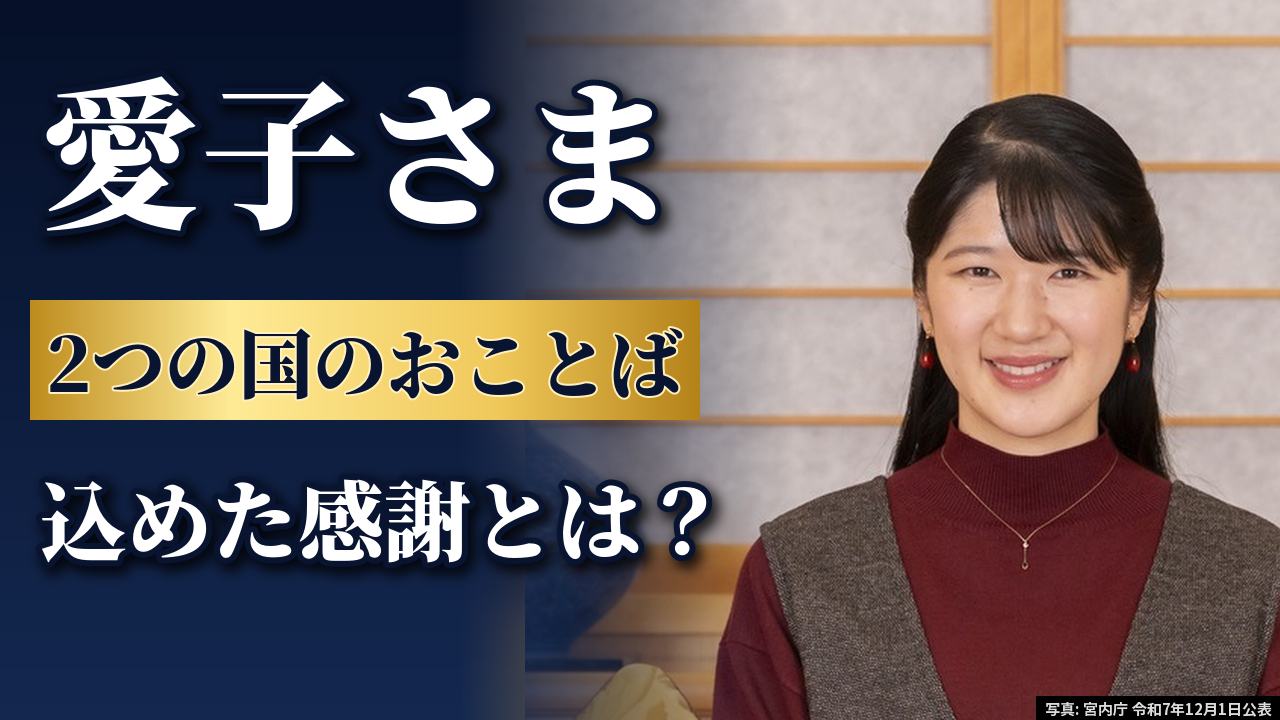
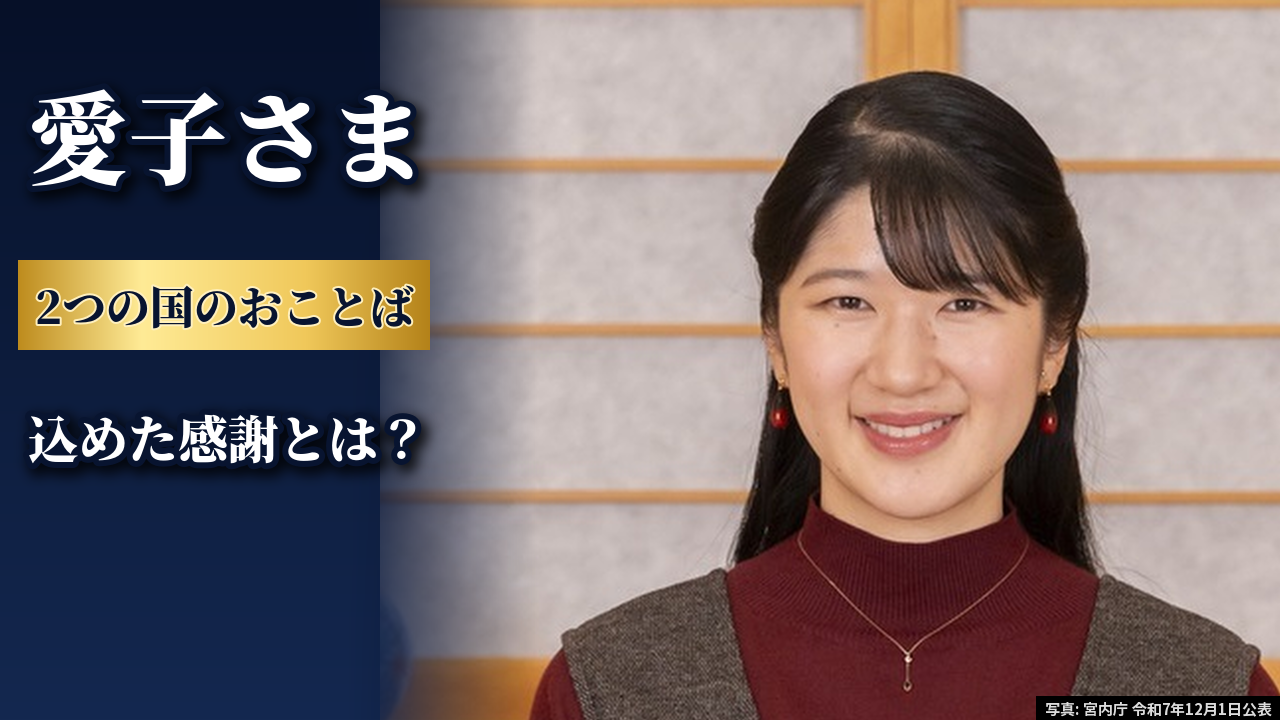
長尺の表紙: 画像がメイン(写真7割以上・文字は端に小さく・主役は1000px以上の写真)(荒木指示)
Claude-Session: https://claude.ai/code/session_01BJaPieHBuTRAAQkfULpzEX

diff --git a/pipeline/thumb_long.py b/pipeline/thumb_long.py
@@ -120,36 +120,36 @@ def credit(im, s):
     w = d.textlength(s, font=f); d.rectangle((W - w - 16, H - 24, W, H), fill=(0, 0, 0)); d.text((W - w - 8, H - 23), s, font=f, fill=(220, 220, 220))
 
 
-def type_R(out, img, focus, big, band, line, cap):
-    """右に人物1名(画面の約6割)・左に文字(大・金の帯・一言)"""
+def type_R(out, img, focus, big, band, line, cap, big_fill="white", face_h=300):
+    """画像がメイン(荒木指示 2026-11-24): 人物1名を画面の約7割に大きく。文字は左端の細い列に小さくまとめる"""
     im = Image.new("RGB", (W, H), NAVY)
-    ph = place(img, 820, H, (560, 300), 230, focus); im.paste(ph, (W - 820, 0))
-    fx, fy, fw, fh = place.last_face; faces_ = [(fx + W - 820, fy, fw, fh)]
-    fade = grad(W, H, [(0, (255, 255, 255)), (0.36, (255, 255, 255)), (0.62, (0, 0, 0)), (1, (0, 0, 0))], horizontal=True).convert("L")
-    bg = grad(W, H, [(0, (6, 16, 40)), (1, (20, 40, 80))])
-    im = Image.composite(bg, im, fade)
-    text(im, (40, 30), big, 170, maxw=640)
-    gold_band(im, (30, 300, 700, 420), band, 92)
-    text(im, (40, 455), line, 104, maxw=700)
+    ph = place(img, 900, H, (520, 340), face_h, focus); im.paste(ph, (W - 900, 0))
+    fx, fy, fw, fh = place.last_face; faces_ = [(fx + W - 900, fy, fw, fh)]
+    fade = grad(W, H, [(0, (255, 255, 255)), (0.27, (255, 255, 255)), (0.42, (0, 0, 0)), (1, (0, 0, 0))], horizontal=True).convert("L")
+    im = Image.composite(grad(W, H, [(0, (6, 16, 40)), (1, (20, 40, 80))]), im, fade)
+    text(im, (28, 60), big, 104, fill=big_fill, maxw=400)
+    gold_band(im, (18, 260, 430, 350), band, 60)
+    text(im, (28, 400), line, 66, maxw=400)
     credit(im, cap); im.save(out)
-    check_faces(out, faces_, [(30, 30, 740, 230), (30, 300, 700, 420), (30, 455, 760, 600)])
+    check_faces(out, faces_, [(18, 40, 440, 190), (18, 260, 430, 350), (18, 390, 440, 490)])
 
 
 def type_D(out, img1, f1, img2, f2, top, big, band, cap):
-    """左右に人物2名・中央に大きな金の一言・上と下に帯"""
+    """画像がメイン: 左右に人物2名(または人物と場所)を画面いっぱいに。文字は上の細い帯と下の帯だけ"""
     im = Image.new("RGB", (W, H), NAVY)
-    p1 = place(img1, 560, H, (130, 300), 150, f1); fa = place.last_face
-    p2 = place(img2, 560, H, (430, 300), 150, f2); fb = place.last_face
-    im.paste(p1, (0, 0)); im.paste(p2, (W - 560, 0))
-    faces_ = ([fa] if f1 is None or len(f1) < 4 else []) + ([(fb[0] + W - 560, fb[1], fb[2], fb[3])] if f2 is None or len(f2) < 4 else [])
-    mid = grad(W, H, [(0, (0, 0, 0)), (0.30, (0, 0, 0)), (0.42, (255, 255, 255)), (0.58, (255, 255, 255)), (0.70, (0, 0, 0)), (1, (0, 0, 0))], horizontal=True).convert("L")
-    im = Image.composite(grad(W, H, [(0, (10, 22, 50)), (1, (25, 45, 85))]), im, mid.point(lambda v: int(v * 0.85)))
-    top_band = grad(W, 128, [(0, (6, 14, 36)), (1, (16, 32, 68))]); im.paste(top_band, (0, 0))
-    text(im, (W // 2, 66), top, 96, anchor="mm", maxw=1220)
-    text(im, (W // 2, 330), big, 200, fill="gold", anchor="mm", maxw=760)
-    gold_band(im, (90, 560, 1190, 672), band, 84)
+    p1 = place(img1, 640, H, (330, 330), 240, f1); fa = place.last_face
+    p2 = place(img2, 640, H, (310, 330), 240, f2); fb = place.last_face
+    im.paste(p1, (0, 0)); im.paste(p2, (640, 0))
+    ImageDraw.Draw(im).line((640, 0, 640, H), fill=(10, 20, 45), width=6)
+    faces_ = ([fa] if f1 is None or len(f1) < 4 else []) + ([(fb[0] + 640, fb[1], fb[2], fb[3])] if f2 is None or len(f2) < 4 else [])
+    im.paste(grad(W, 74, [(0, (6, 14, 36)), (1, (16, 32, 68))]), (0, 0))
+    text(im, (W // 2, 37), top, 56, anchor="mm", maxw=1200, shadow=False)
+    low = grad(W, 230, [(0, (0, 0, 0)), (1, (255, 255, 255))]).convert("L")
+    im.paste(Image.new("RGB", (W, 230), (6, 14, 36)), (0, 490), low)
+    text(im, (W // 2, 575), big, 118, fill="gold", anchor="mm", maxw=900)
+    gold_band(im, (240, 640, 1040, 706), band, 50)
     credit(im, cap); im.save(out)
-    check_faces(out, faces_, [(0, 0, W, 128), (250, 220, 1030, 440), (90, 560, 1190, 672)])
+    check_faces(out, faces_, [(0, 0, W, 74), (180, 515, 1100, 720)])
 
 
 if __name__ == "__main__":
@@ -158,7 +158,7 @@ if __name__ == "__main__":
     O = str(Path(__file__).resolve().parents[1] / "samples/long_aiko_2countries") + "/"
     type_R(O + "thumb_A.png", A + "A115.jpg", None, "愛子さま", "2つの国のおことば", "込めた感謝とは？",
            "写真: 宮内庁 令和7年12月1日公表")
-    type_D(O + "thumb_B.png", S + "lao_601_3.jpeg", None, S + "lao_609_1.jpeg", (0.62, 0.28, 0.15),
-           "愛子さまのおことば", "1年で2回", "東日本大震災への感謝", "写真: 宮内庁 2025.11.18 晩餐会 / 11.20 午餐会(ラオス)")
+    type_R(O + "thumb_B.png", A + "A118.jpg", (0.53, 0.33, 0.17), "1年で2回", "東日本大震災への感謝", "2つのおことば",
+           "写真: 宮内庁 令和7年12月1日公表(御所にて)", big_fill="gold", face_h=200)
     type_D(O + "thumb_C.png", A + "A020.jpg", None, S + "jg.jpg", (0.5, 0.5, 0.21, "scene"),
            "祖父母が植えた木", "56年前", "シンガポールで語られた3代", "写真: 宮内庁 2026.6.22 ©Naoya Ikegami/SUNTORY HALL / イメージ: 日本庭園 FN-082 CC BY-SA 4.0")

diff --git a/templates/thumb_long_template.md b/templates/thumb_long_template.md
@@ -22,8 +22,13 @@
 - **お顔を文字に重ねない・見切れさせない（荒木指示 2026-11-24）：** お顔は決まった位置に決まった大きさで置く（型R: 右側 x約1020・顔の高さ約230px／型D: 左 x約130・右 x約1150・顔の高さ約150px、いずれも y約300）。髪から顎までの頭の範囲が、文字・帯の枠と重ならず、画面の外に出ないことを `check_faces` で必ず確かめる（不合格なら写真か位置を変える）。写真が足りない所は同じ写真のぼかしで埋める。主役以外の方のお顔が文字の下に半分隠れる写真は使わない
 - 右下に小さく写真の出典・撮影日
 
-**型R（人物1名）**: 右6割に人物の写真、左に「大きな一言（白・約170px）」→「金の帯（約92px）」→「一言（白・約104px）」
-**型D（人物2名・または人物＋場所）**: 左右に写真、上に濃紺の帯の白文字（約96px）、中央に**大きな金の一言（約200px）**、下に金の帯（約84px）
+**画像がメイン（荒木指示 2026-11-24）：** 表紙の主役は人物の写真。文字はタイトルの補助として小さくまとめる。
+- 写真が画面の約7割以上。文字は型Rでは左端の細い列（幅約430px以内）、型Dでは上の細い帯と下の帯だけ
+- お顔の高さは型Rで200〜300px、型Dで約240px。お顔がはっきり見える大きさにする
+- **主役の写真は長辺1000px以上のものを使う**（宮内庁の400px程度の写真は大きく引き伸ばすとぼやけるため、主役には使わない）
+
+**型R（人物1名）**: 右約7割に人物の写真、左の細い列に「大きな一言（白または金・約104px）」→「金の帯（約60px）」→「一言（白・約66px）」
+**型D（人物2名・または人物＋場所）**: 左右に写真を画面いっぱいに、上の細い帯に白文字（約56px）、下に**金の一言（約118px）**と金の帯（約50px）。中央に文字を置かない
 
 ## 3パターン(A/B/C)の作り分け
 - タイトル3案（切り口がまったく違う: 強い疑問型／数字・事実型／人物の物語型）それぞれに表紙を1枚
